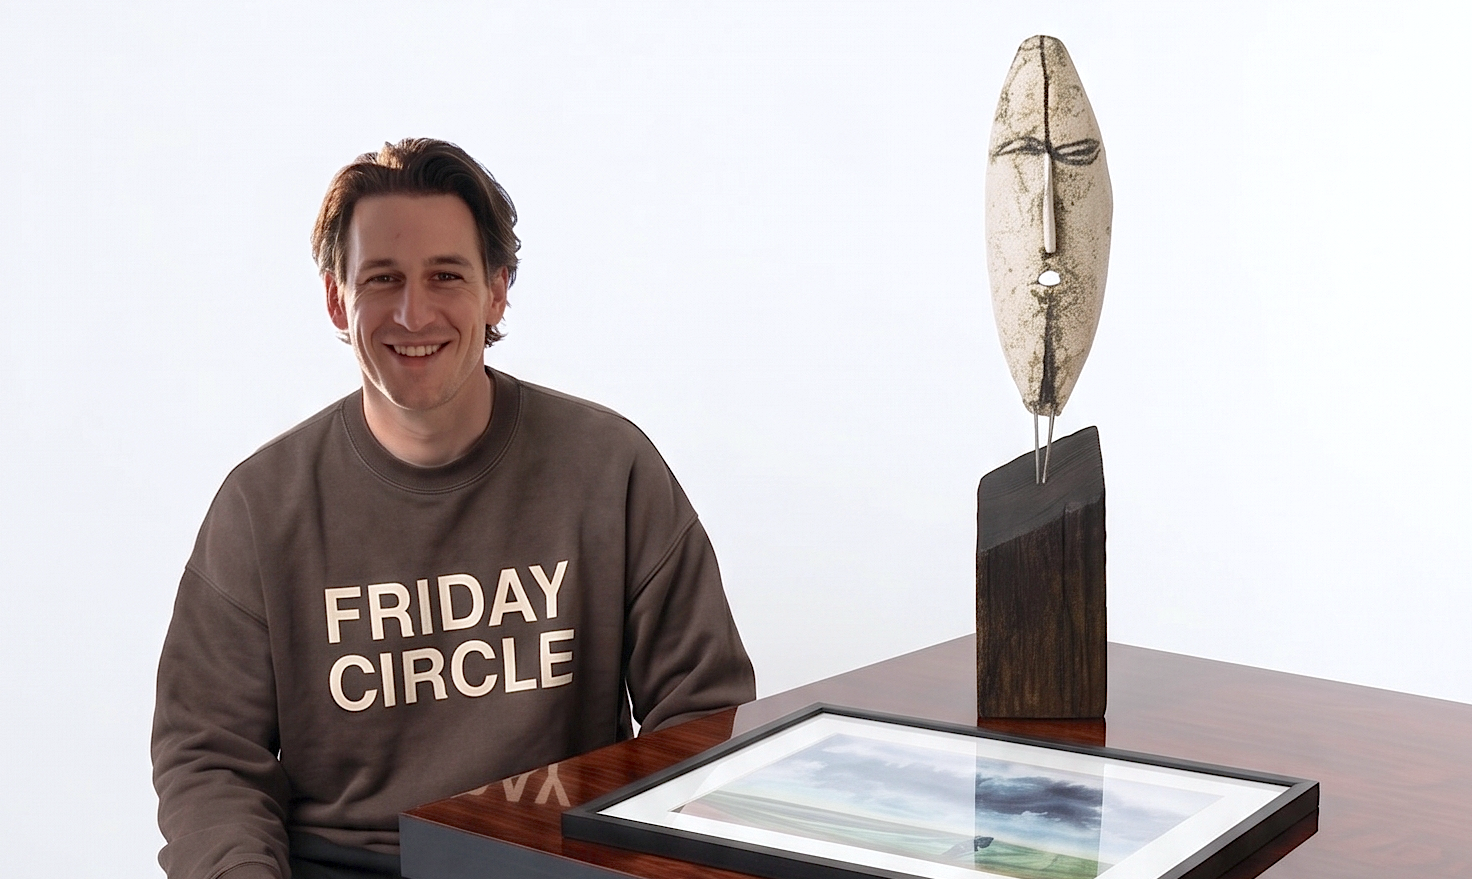
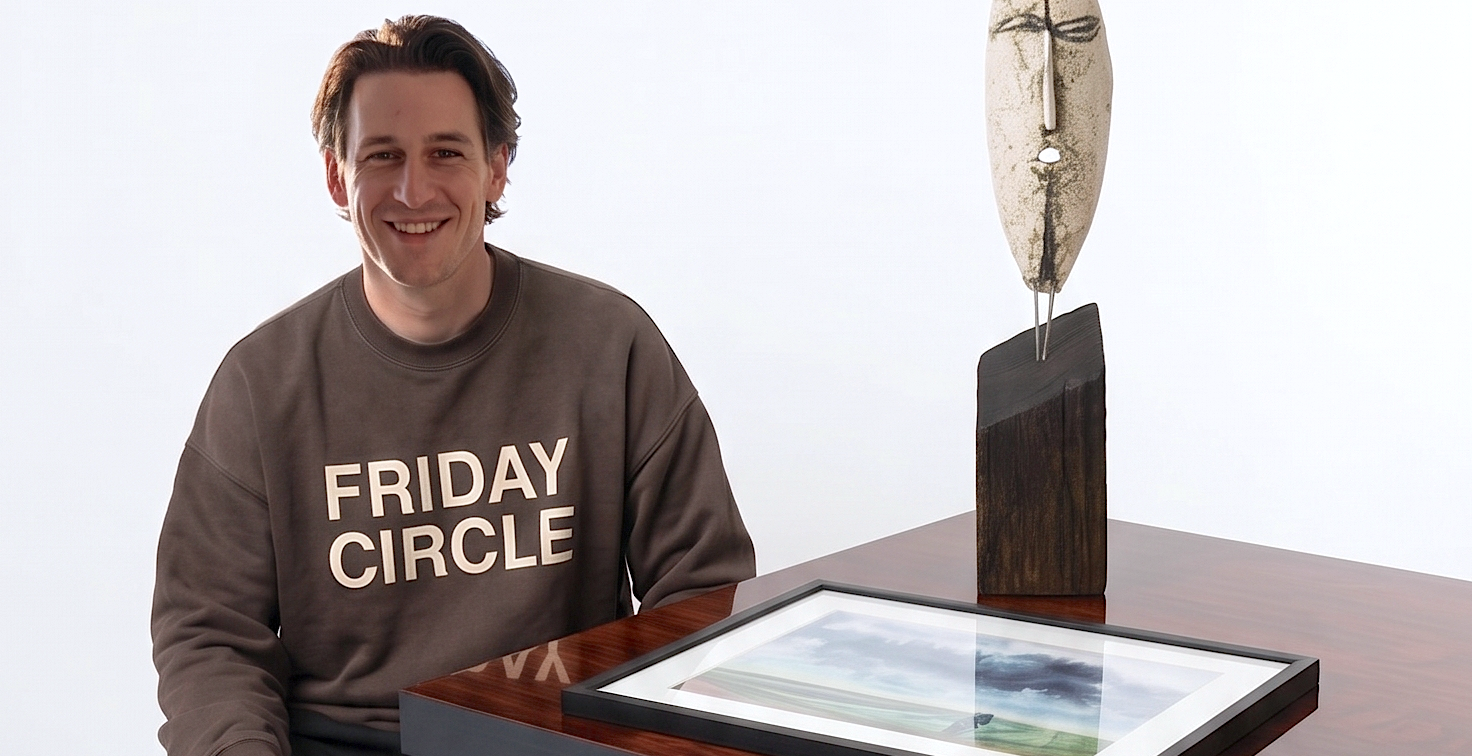
Update FC shop hero image to revised biig-sale-hero2 crop.
Replace the previous hero crop and remove the unused biig-sale-hero.png asset.

diff --git a/index.html b/index.html
@@ -293,7 +293,7 @@
               <img src="assets/berlin-arch-tour/hero.jpg" alt="" width="1600" height="900" decoding="async" />
             </div>
             <div class="fc-program-hero__slide fc-program-hero__slide--shop" data-slide="4">
-              <img src="assets/biigJ/biig-sale-hero2.png" alt="" width="1472" height="879" decoding="async" />
+              <img src="assets/biigJ/biig-sale-hero2.png" alt="" width="1472" height="756" decoding="async" />
             </div>
           </div>
           <div class="fc-program-hero__content">
